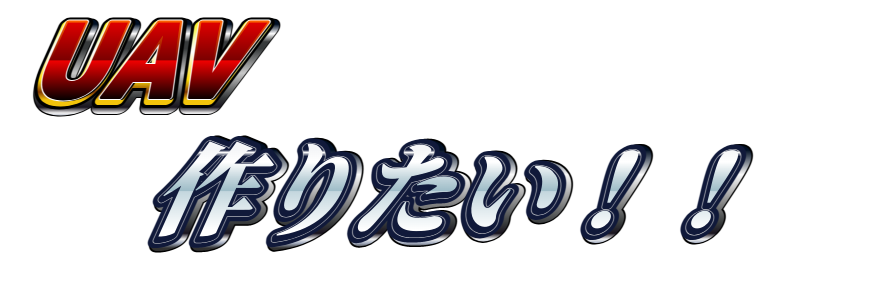
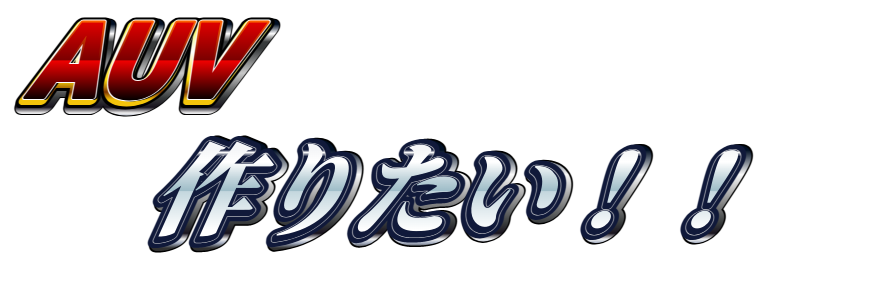
fix: typo and markdown lint

Changed region(s): [[0.0, 0.031, 0.2457, 0.4034]]

diff --git a/README.md b/README.md
@@ -1,8 +1,10 @@
-# Welcom to marron-UAV project.
+# Welcome to MARRON-AUV project.
+
 ## いったい何が始まるんです？
+
 "Massive Radical Reaction Open Nautilus"
 
-![](docs/images/cad_image.jpeg)
+![cad_image](docs/images/cad_image.jpeg)
 
 水中機がお好き？　結構！では、ますます好きになりますよー。
 MARRON-AUV は日本で生まれました。アメリカの製品ではありません。
@@ -12,10 +14,10 @@ MARRON-AUV は日本で生まれました。アメリカの製品ではありま
 でも繊細な描写なんて考察が必要だし、重い気分になるわ、脳みそは疲れるわ、
 ろくなことがない。 ツッコミどころもたくさんありますよ。
 どんだけ疲れてても大丈夫。どうぞ観てみてください。 いいマシンでしょう？
-最高のオモチャだ、正気度が違いますよ！ 
+最高のオモチャだ、正気度が違いますよ！
 
 ## 続きはWebで！
 
 続きを読みたい方は下の画像をクリック！
 
-[![](docs/images/documentation_link.png)](https://marron-auv.github.io/marron-auv/)
+[![document_link](docs/images/documentation_link.png)](https://marron-auv.github.io/marron-auv/)
